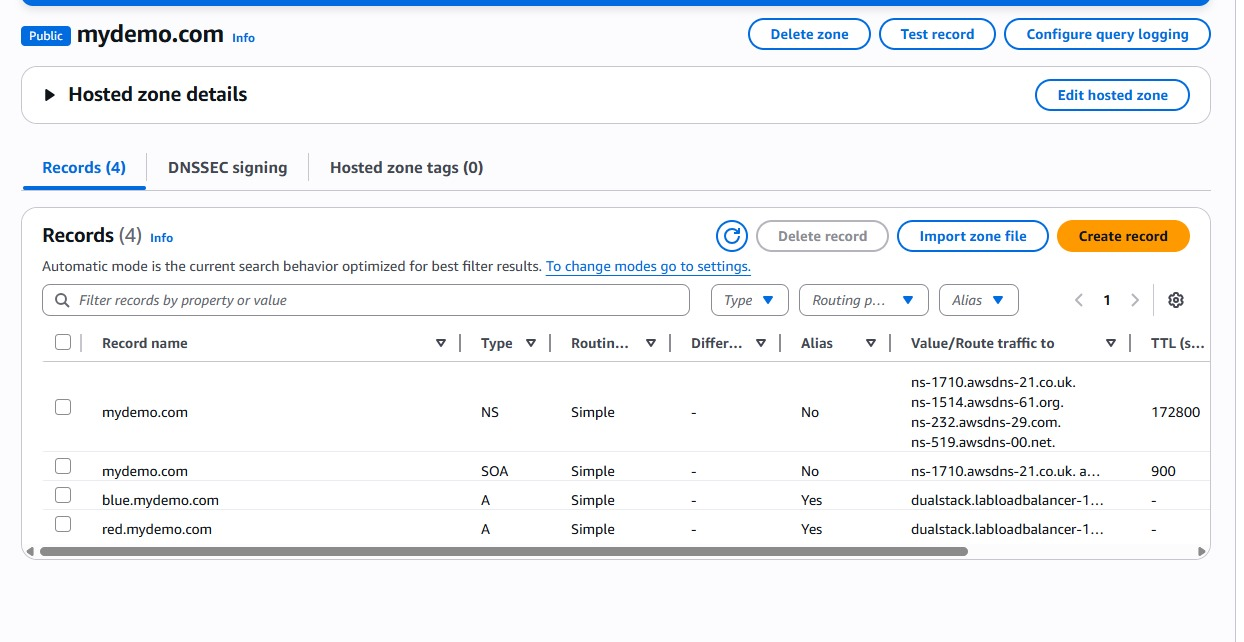
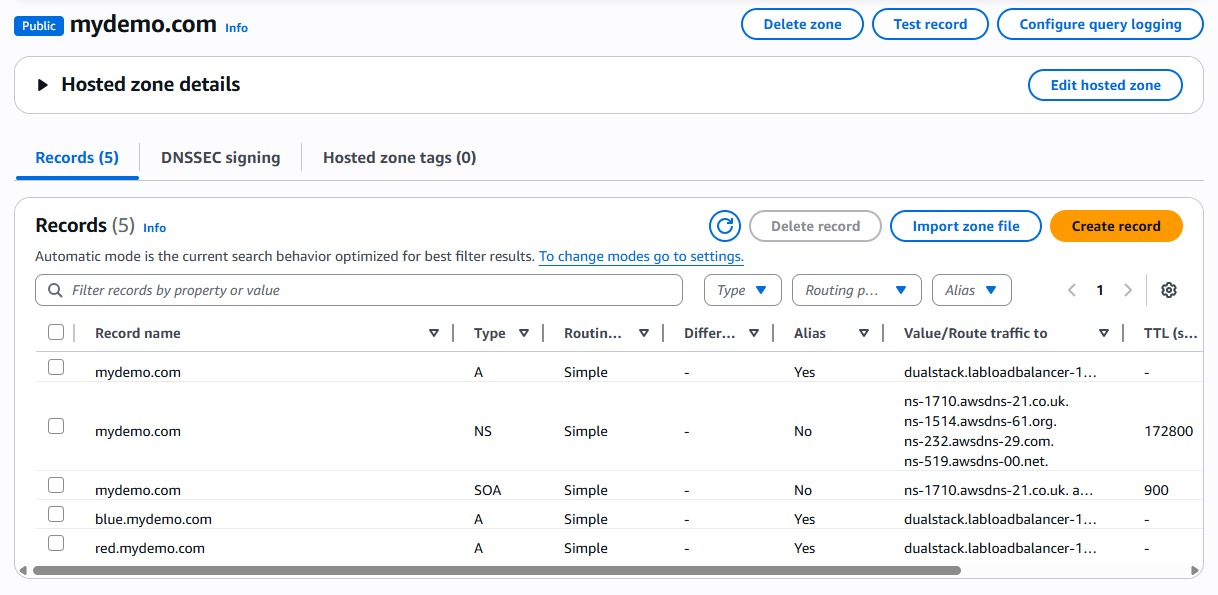
create/configure the hosted-based routing

diff --git a/README.md b/README.md
@@ -205,14 +205,14 @@ The first step is to set up the target groups; you need at least **2 target grou
 
 ---
 
-# 10. Configure ALB Listener Rules
+## 10. Configure ALB Listener Rules
 
-## Path-Based Routing
+### Path-Based Routing
 
 Once ALB is  active, under **Listeners and rules**, select the checkbox for your first listener.  
 Then, under the **Manage Rules** menu, click **Add rule**.  
 
-### Configure as follows:  
+#### Configure as follows:  
 - **Name and tags:** Ignore and click Next.  
 - **Conditions:** Click **Add condition**, select **Path** from the dropdown menu, and enter `/red*` for the path.  
 - **Actions:** Forward to the **Red target group**.  
@@ -224,7 +224,7 @@ Repeat the above creating a rule for the **Blue target group**:
 
 ![Path-based Routing](images/createdlisteners.jpg)  
 
-✅ **Test:**  
+**Test:**  
 Copy the **DNS name** from the Application Load Balancer and append either `/red` or `/blue` on the URL.  
 You should see the different colored custom web pages we added to our instances.
 
@@ -235,5 +235,62 @@ You should see the different colored custom web pages we added to our instances.
 - `http://<ALB-DNS>/blue` → Blue app  
 
 ![Blue App](images/blueapplb.jpg)
+
+
+### Host-Based Routing (Using Route 53 with a Fake Domain)
+
+#### Step 1 – Open Route 53 and Create a Public Hosted Zone  
+- Go to **Route 53 → Hosted Zones**.  
+- Click **Create Hosted Zone**.  
+- **Domain name:** `mydemo.com` (fake, you don’t need to own it).  
+- **Type:** Public Hosted Zone.  
+- Click **Create**.  
+
+![Hosted Zone](images/hostedzone.jpg)
+
+#### Step 2 – Create Subdomain Records (Blue & Red)  
+Inside your `mydemo.com` hosted zone:  
+
+1. Click **Create Record**.  
+   - **Record name:** `blue` (this makes it `blue.mydemo.com`).  
+   - **Record type:** A – Routes traffic to an IPv4 address or AWS resource.  
+   - **Value/Route traffic to:**  
+     - Choose **Alias → Application and Classic Load Balancer**.  
+     - **Region:** Select the region where your ALB lives.  
+     - **Target:** Select the ALB you created earlier (`ColorALB`).  
+    - **Should look like this**
+
+    ![Creating Blue Record](images/creatingbluerecord.jpg)
+
+   - Click **Create record**.  
+
+2. Repeat the same steps for `red.mydemo.com`:  
+   - **Record name:** `red`.  
+   - Everything else same as above, pointing to the same ALB. 
+
+    ![Creating Red Record](images/creatingredrecord.jpg)
+
+### Step 3 – Create Apex/Naked Domain Record  
+- Click **Create Record** again.  
+- **Record name:** (leave blank → this maps to `mydemo.com` itself).  
+- **Record type:** A.  
+- **Alias:** Yes → point to the same ALB.  
+
+![Creating Naked Record](images/creatingnakedrecord.jpg) 
+
+- Save.  
+
+### Step 4 – Final DNS Records Layout  
+Your hosted zone will now look like this:  
+
+- `mydemo.com` → ALB  
+- `red.mydemo.com` → ALB  
+- `blue.mydemo.com` → ALB  
+
+![Route 53 Records](images/creatingnakedrecord.jpg) 
+
+✅ **Test:**  
+- `http://red.mydemo.com` → Red app  
+- `http://blue.mydemo.com` → Blue app  
 
 ---
